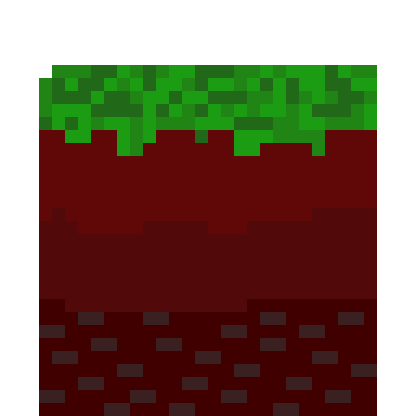
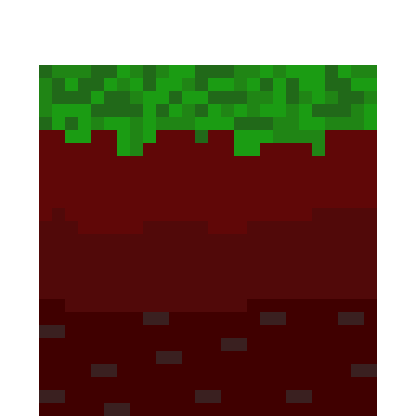
sigma

diff --git a/The Meat Man/Code/script.js b/The Meat Man/Code/script.js
@@ -27,7 +27,7 @@ function preload() {
   meatballSprite = loadImage('Meatball.png')
   openMouthL = loadImage('theMeatManOpenMouthL.png')
   openMouthR = loadImage('theMeatManOpenMouthR.png')
-  ground = loadImage('newGround.png')
+  ground = loadImage('Ground.png')
   underImg = loadImage('underGround.png')
 
 }
@@ -241,9 +241,6 @@ function draw() {
   movement()
   blinking()
   shoot()
-  if (meatMan.y < 800) {
-    camera.pos = meatMan.pos
-  } else {}
   meatMan.image.scale = v
   meatMan.image.offset.y = -30
   meatMan.image.offset.x = 4
@@ -251,7 +248,11 @@ function draw() {
   meatball.image.scale = 0.24
   meatball.image.offset.x = -17
   meatball.image.offset.y = 6
-
+  if (meatMan.y < 800) {
+    camera.pos = meatMan.pos
+  } else {
+    meatMan.velocity.x = 0
+  }
   if (v <= 0 || meatMan.collides(bottom)) {
     //GAME OVER
   }
